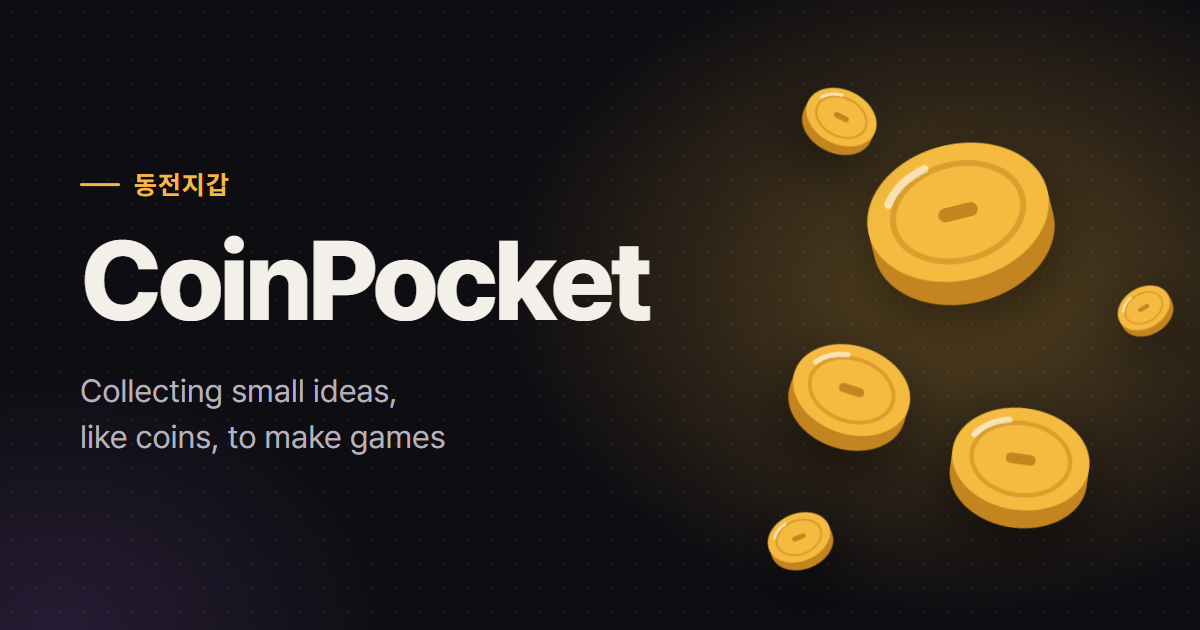
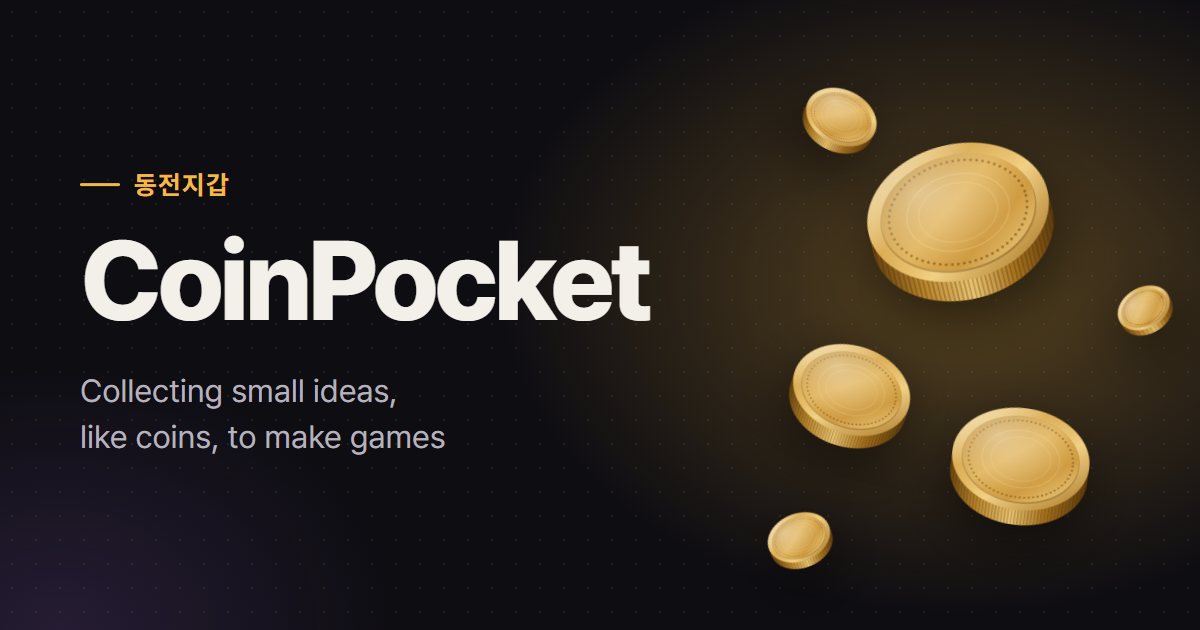
동전 그림을 금속 느낌으로 다듬기 (로고·탭 아이콘·첫 화면·팀 카드·공유 이미지)

diff --git a/scripts/og-image.html b/scripts/og-image.html
@@ -4,8 +4,9 @@
 	글자는 src/i18n.ts 와 같게 맞춘다. 바뀌면 여기도 고치고 아래 명령으로 다시 찍는다 (프로젝트 폴더에서, Git Bash).
 
 	C="/c/Program Files/Google/Chrome/Application/chrome.exe"
+	W=$(pwd -W)
 	for l in ko en; do "$C" --headless=new --hide-scrollbars --virtual-time-budget=5000 --window-size=1200,630 \
-		--screenshot="public/og-$l.png" "file:///$PWD/scripts/og-image.html?lang=$l"; done
+		--screenshot="$W/public/og-$l.png" "file:///$W/scripts/og-image.html?lang=$l"; done
 -->
 <html>
 <head>
@@ -64,12 +65,7 @@
 	}
 	h1:lang(en) { font-size: 112px; }
 	p.tagline { text-wrap: balance; margin: 32px 0 0; font-size: 32px; line-height: 1.45; color: #b5b1bd; }
-	.coin { position: absolute; filter: drop-shadow(0 20px 26px rgb(0 0 0 / 0.45)); }
-	.edge { fill: #c48420; }
-	.face { fill: #f4bb40; }
-	.ring { fill: none; stroke: #dc9d2c; stroke-width: 3; }
-	.slot { fill: #c48420; }
-	.shine { fill: none; stroke: #fff; stroke-opacity: 0.6; stroke-width: 4; stroke-linecap: round; }
+	.coin { position: absolute; filter: drop-shadow(0 20px 26px rgb(0 0 0 / 0.5)); }
 </style>
 </head>
 <body>
@@ -80,13 +76,32 @@
 		<p class="tagline" id="tagline"></p>
 	</div>
 	<svg width="0" height="0" style="position:absolute">
+		<!-- src/components/HeroCoins.astro 의 동전과 같은 그림 -->
+		<defs>
+			<linearGradient id="hc-edge" x1="0" x2="1" y1="0" y2="0">
+				<stop offset="0" stop-color="#6b450f" /><stop offset=".22" stop-color="#b9852c" /><stop offset=".48" stop-color="#ecc673" /><stop offset=".72" stop-color="#a8731f" /><stop offset="1" stop-color="#5e3c0c" />
+			</linearGradient>
+			<pattern id="hc-reed" width="2.2" height="10" patternUnits="userSpaceOnUse"><rect width="0.9" height="10" fill="rgb(60 36 0 / .28)" /></pattern>
+			<linearGradient id="hc-rim" x1="0" y1="0" x2="1" y2="1">
+				<stop offset="0" stop-color="#fbe8ad" /><stop offset=".35" stop-color="#d9a748" /><stop offset=".6" stop-color="#f1d084" /><stop offset="1" stop-color="#a26e1d" />
+			</linearGradient>
+			<linearGradient id="hc-field" x1="0" y1="0" x2="1" y2="1">
+				<stop offset="0" stop-color="#b98328" /><stop offset=".45" stop-color="#e0b257" /><stop offset=".7" stop-color="#cf9c42" /><stop offset="1" stop-color="#f1d28a" />
+			</linearGradient>
+			<radialGradient id="hc-spec" cx=".32" cy=".3" r=".55"><stop offset="0" stop-color="#fff" stop-opacity=".4" /><stop offset="1" stop-color="#fff" stop-opacity="0" /></radialGradient>
+		</defs>
 		<symbol id="coin" viewBox="0 0 100 100">
-			<ellipse cx="50" cy="58" rx="46" ry="34" class="edge" />
-			<rect x="4" y="46" width="92" height="12" class="edge" />
-			<ellipse cx="50" cy="46" rx="46" ry="34" class="face" />
-			<ellipse cx="50" cy="46" rx="33" ry="24" class="ring" />
-			<rect x="40" y="42.5" width="20" height="7" rx="3.5" class="slot" />
-			<path d="M17 34a36 26 0 0 1 22-13" class="shine" />
+			<ellipse cx="50" cy="56" rx="46" ry="34" fill="url(#hc-edge)" />
+			<rect x="4" y="46" width="92" height="10" fill="url(#hc-edge)" />
+			<ellipse cx="50" cy="56" rx="46" ry="34" fill="url(#hc-reed)" />
+			<rect x="4" y="46" width="92" height="10" fill="url(#hc-reed)" />
+			<ellipse cx="50" cy="46" rx="46" ry="34" fill="url(#hc-rim)" />
+			<ellipse cx="50" cy="46.6" rx="39.5" ry="29" fill="rgb(90 55 5 / .35)" />
+			<ellipse cx="50" cy="46" rx="39" ry="28.6" fill="url(#hc-field)" />
+			<ellipse cx="50" cy="46" rx="35" ry="25.6" fill="none" stroke="rgb(100 62 8 / .5)" stroke-width="1.5" stroke-linecap="round" stroke-dasharray="0 3" />
+			<ellipse cx="50" cy="46" rx="26" ry="19" fill="none" stroke="rgb(255 240 200 / .25)" stroke-width=".5" />
+			<ellipse cx="50" cy="46" rx="20" ry="14.6" fill="none" stroke="rgb(255 240 200 / .2)" stroke-width=".5" />
+			<ellipse cx="50" cy="46" rx="46" ry="34" fill="url(#hc-spec)" />
 		</symbol>
 	</svg>
 	<div id="coins"></div>
